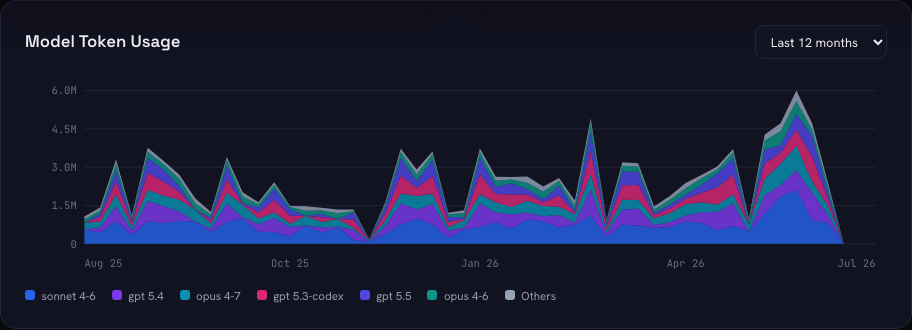
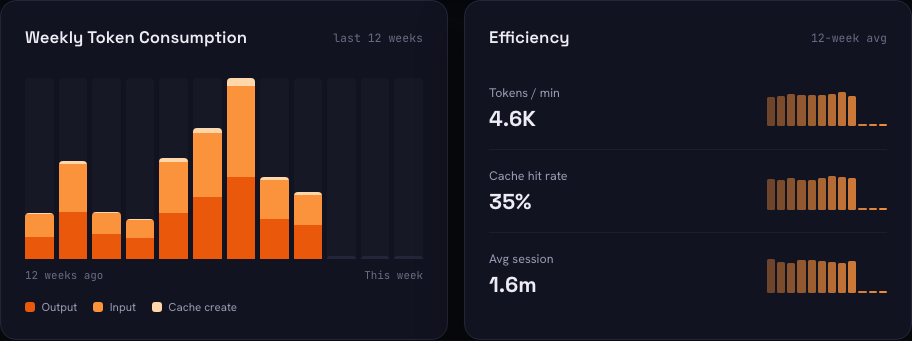
Document model usage chart separately

diff --git a/README.md b/README.md
@@ -59,7 +59,15 @@ Weekly model token usage shows the selected period's top six models individually
     <td colspan="2">
       <picture>
         <source media="(prefers-color-scheme: dark)" srcset="docs/images/dashboard-charts-dark.png">
-        <img src="docs/images/dashboard-charts-light.png" alt="Weekly model token usage area chart showing the top six models and Others, with a Last 12 months or calendar-year selector">
+        <img src="docs/images/dashboard-charts-light.png" alt="Weekly Token Consumption and Efficiency summary charts in an equal-width row">
+      </picture>
+    </td>
+  </tr>
+  <tr>
+    <td colspan="2">
+      <picture>
+        <source media="(prefers-color-scheme: dark)" srcset="docs/images/dashboard-model-usage-dark.png">
+        <img src="docs/images/dashboard-model-usage-light.png" alt="Weekly Model Token Usage area chart showing the top six models and Others, with a Last 12 months or calendar-year selector">
       </picture>
     </td>
   </tr>
